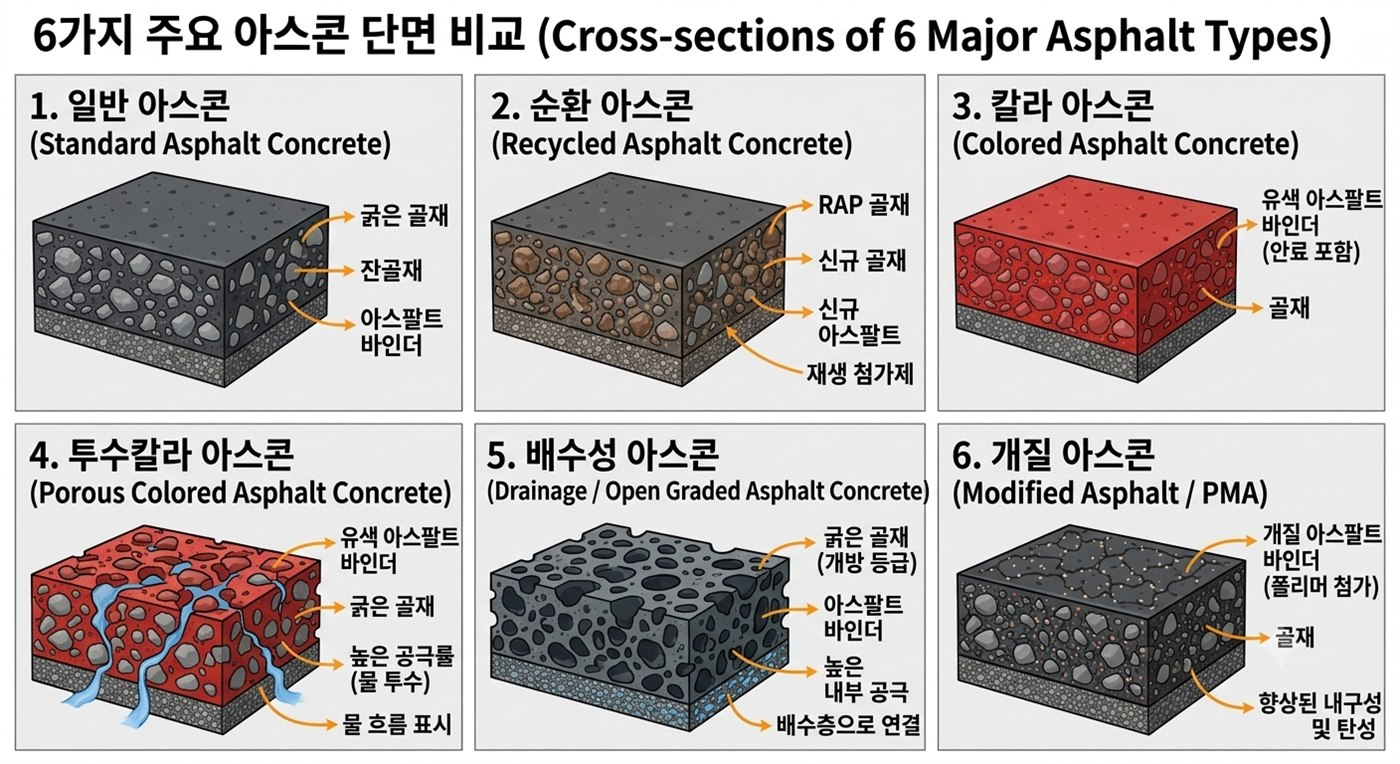
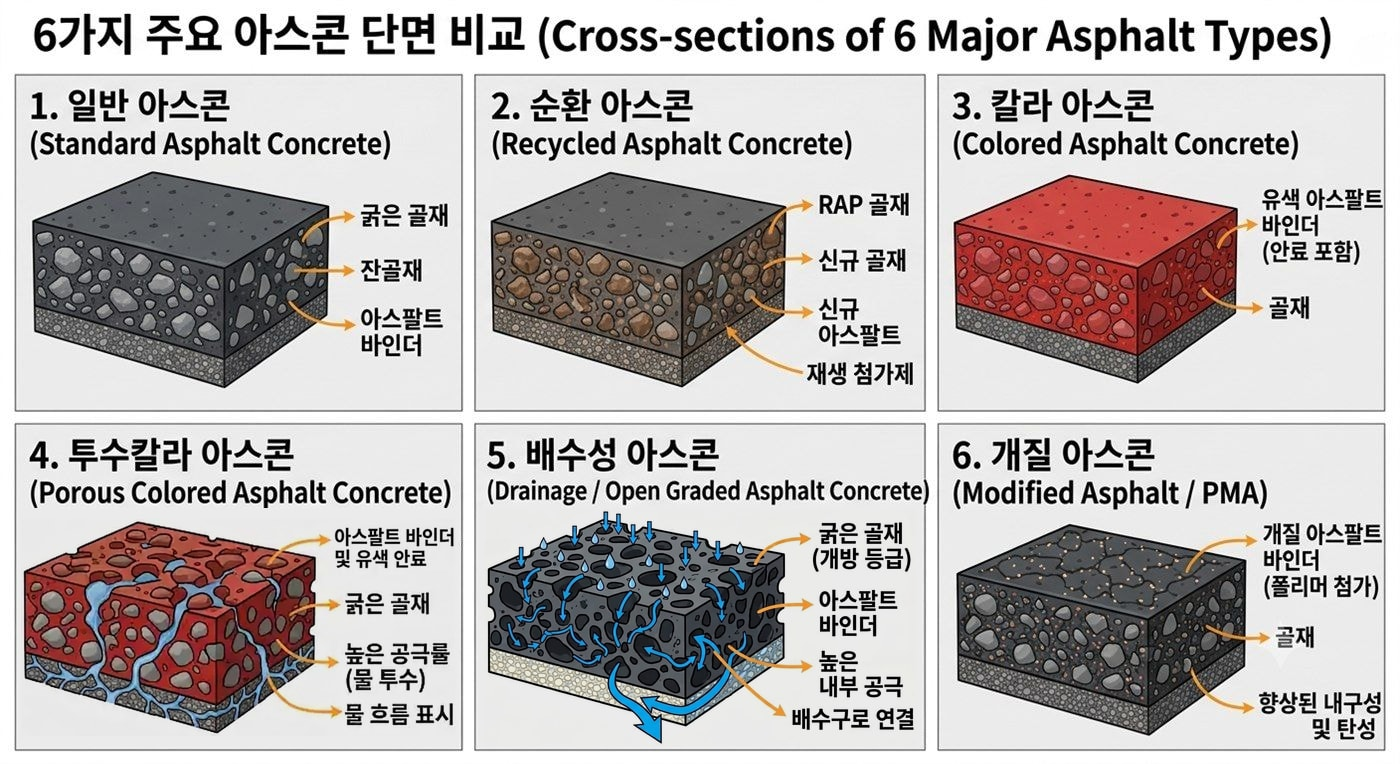
투수칼라·배수성 아스콘 단면 이미지를 제공받은 이미지로 교체
- 아래 설명 카드(type-04, type-05)와 6종 비교 이미지의 4·5번 패널 모두 교체
- 기존 이미지 스타일에 맞춰 흰 배경·테두리 없음으로 정리, 비교 이미지는 패널 배경색에 맞춤
- 이미지 URL에 ?v=2 추가(캐시 갱신)

Changed region(s): [[0.0, 0.6623, 0.6757, 0.9634]]

diff --git a/business.html b/business.html
@@ -81,7 +81,7 @@
 
       <h3 class="pavement-title pavement-title-lg">아스콘의 종류</h3>
       <figure class="pavement-figure type-comparison-figure">
-        <img src="img/pavement-types/type-comparison.jpg" alt="6가지 주요 아스콘 단면 비교: 일반, 순환, 칼라, 투수칼라, 배수성, 개질 아스콘">
+        <img src="img/pavement-types/type-comparison.jpg?v=2" alt="6가지 주요 아스콘 단면 비교: 일반, 순환, 칼라, 투수칼라, 배수성, 개질 아스콘">
       </figure>
 
       <div class="type-grid">
@@ -107,14 +107,14 @@
           </div>
         </div>
         <div class="type-card">
-          <img src="img/pavement-types/type-04-porous-color.jpg" alt="투수칼라 아스콘 단면">
+          <img src="img/pavement-types/type-04-porous-color.jpg?v=2" alt="투수칼라 아스콘 단면">
           <div class="type-info">
             <h4>투수칼라 아스콘 <em>Porous Colored Asphalt Concrete</em></h4>
             <p>빗물이 표면에 고이지 않고 내부 공극을 통해 지면으로 스며들도록 만든 친환경 기능성 포장재.</p>
           </div>
         </div>
         <div class="type-card">
-          <img src="img/pavement-types/type-05-drainage.jpg" alt="배수성 아스콘 단면">
+          <img src="img/pavement-types/type-05-drainage.jpg?v=2" alt="배수성 아스콘 단면">
           <div class="type-info">
             <h4>배수성 아스콘 <em>Drainage / Open Graded Asphalt Concrete</em></h4>
             <p>빗물이 표면에 고이지 않고 내부 공극을 통해 빠르게 배수되도록 설계된 고기능성 포장재.</p>
